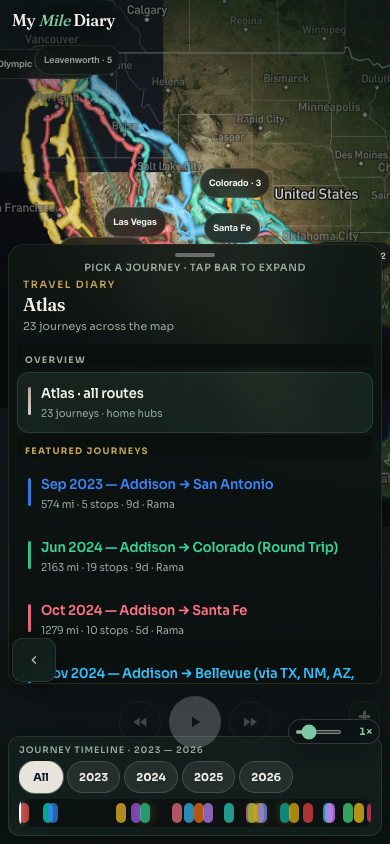
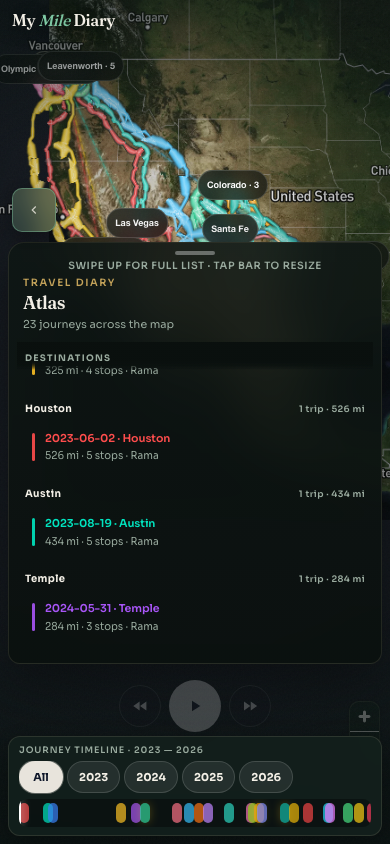
Fix mobile home screen scroll and chrome overlap (#32)
The atlas browse view on phones opened in a tiny peek sheet with only
~70px of scroll area, while the transport dock overlapped the timeline
by 16px and the speed rail cluttered the home screen.

- Default mobile sheet to half height so trips are browsable on load
- Measure bottom chrome at runtime and position the panel above it
- Hide speed rail on atlas browse; show only when a trip is focused
- Fix dock/timeline stacking gap and add touch scroll isolation
- Add swipe-up/down on the sheet grab handle
- Strengthen verify_map mobile assertions (scroll, overlap, list height)

diff --git a/scripts/verify_map.py b/scripts/verify_map.py
@@ -690,21 +690,20 @@ def main() -> int:
         print(f"Play control: {dock_state}")
         queue_state = dock_state  # keep name for older assertion block compatibility below
 
-        # Mobile sheet regression (iPhone-ish)
+        # Mobile sheet regression (iPhone-ish) — default browse state, no forced sheet mode
         page.set_viewport_size({"width": 390, "height": 844})
         page.evaluate("selectTrip('all'); setPanelCollapsed(false); ensureMobileBrowseSheet();")
-        page.wait_for_timeout(400)
-        mobile_peek = page.evaluate(
+        page.wait_for_timeout(500)
+        mobile_default = page.evaluate(
             """() => {
               const panel = document.getElementById('sidebar');
               return {
+                panelHalf: panel?.classList.contains('sheet-half'),
                 panelPeek: panel?.classList.contains('sheet-peek'),
                 panelMaxH: panel?.getBoundingClientRect().height,
               };
             }"""
         )
-        page.evaluate("setSheetState('half')")
-        page.wait_for_timeout(300)
         mobile = page.evaluate(
             """() => {
               const panel = document.getElementById('sidebar');
@@ -730,6 +729,11 @@ def main() -> int:
                 return r.height > 0 && r.bottom > pr.top + 12 && r.top < pr.bottom - 8;
               }).length;
               const togglePanelOverlap = !!(tr && pr && tr.left < pr.right && tr.right > pr.left && tr.top < pr.bottom && tr.bottom > pr.top);
+              const scrollBefore = list?.scrollTop || 0;
+              if (list) list.scrollTop = list.scrollHeight;
+              const scrollAfter = list?.scrollTop || 0;
+              const lastItem = items[items.length - 1];
+              const lastR = lastItem?.getBoundingClientRect();
               return {
                 panelBottomSheet: pr.bottom > window.innerHeight * 0.55 && pr.top > window.innerHeight * 0.18,
                 panelGrab: !!document.getElementById('panel-grab') && getComputedStyle(document.getElementById('panel-grab')).display !== 'none',
@@ -737,8 +741,14 @@ def main() -> int:
                 panelHalf: panel?.classList.contains('sheet-half'),
                 panelMaxH: pr.height,
                 panelHeightOk: pr.height >= window.innerHeight * 0.38,
+                listClientH: list?.clientHeight || 0,
                 tripListVisible: visibleTrips >= 1,
                 listScrollable: list ? list.scrollHeight > list.clientHeight + 4 : false,
+                listScrollWorked: scrollAfter > scrollBefore + 20,
+                lastTripReachable: !!(lastR && lr && lastR.top >= lr.top && lastR.bottom <= lr.bottom + 2),
+                dockTimelineOverlap: overlaps(dr, tlr),
+                dockTimelineGap: tlr && dr ? tlr.top - dr.bottom : null,
+                speedHiddenOnAtlas: speed ? getComputedStyle(speed).display === 'none' : true,
                 dockWidth: dr.width,
                 dockInView: dr.bottom <= window.innerHeight + 2 && dr.top >= 0,
                 toggleSize: Math.min(tr.width, tr.height),
@@ -747,14 +757,15 @@ def main() -> int:
                 eraScrollable: era ? era.scrollWidth >= era.clientWidth - 1 : false,
                 eraChips: document.querySelectorAll('.era-chip').length,
                 timelineInView: tlr ? (tlr.left >= -1 && tlr.right <= window.innerWidth + 1 && tlr.bottom <= window.innerHeight + 2) : false,
-                chromeOverlap: overlaps(pr, dr) || overlaps(pr, tlr) || overlaps(tr, sr) || togglePanelOverlap,
+                chromeOverlap: overlaps(pr, dr) || overlaps(pr, tlr) || overlaps(pr, sr) || togglePanelOverlap,
+                mobileChromeH: getComputedStyle(document.documentElement).getPropertyValue('--mobile-chrome-h').trim(),
                 hubs: document.querySelectorAll('.home-hub').length,
                 vw: window.innerWidth,
                 vh: window.innerHeight,
               };
             }"""
         )
-        print(f"Mobile peek: {mobile_peek}")
+        print(f"Mobile default: {mobile_default}")
         print(f"Mobile 390x844: {mobile}")
         page.screenshot(path=str(SCREENSHOTS / "08-mobile-sheet.png"))
         page.evaluate(f"selectTrip({json.dumps(trip_co)})")
@@ -1092,11 +1103,11 @@ def main() -> int:
     if mobile.get("vw") != 390:
         print(f"FAIL: Mobile viewport not applied: {mobile}")
         ok = False
-    if not mobile_peek.get("panelPeek"):
-        print(f"FAIL: Mobile panel should default to peek sheet for browsing: {mobile_peek}")
+    if not mobile_default.get("panelHalf"):
+        print(f"FAIL: Mobile panel should default to half sheet for browsing: {mobile_default}")
         ok = False
     if not mobile.get("panelHalf"):
-        print(f"FAIL: Mobile panel should expand to half sheet: {mobile}")
+        print(f"FAIL: Mobile panel should stay in half sheet for browsing: {mobile}")
         ok = False
     if not mobile.get("panelHeightOk"):
         print(f"FAIL: Mobile panel too short to browse journeys: {mobile}")
@@ -1106,6 +1117,21 @@ def main() -> int:
         ok = False
     if not mobile.get("tripListVisible"):
         print(f"FAIL: Mobile trip list not visible in sheet: {mobile}")
+        ok = False
+    if mobile.get("dockTimelineOverlap"):
+        print(f"FAIL: Mobile transport dock overlaps timeline: {mobile}")
+        ok = False
+    if mobile.get("listClientH", 0) < 120:
+        print(f"FAIL: Mobile trip list scroll area too small: {mobile}")
+        ok = False
+    if mobile.get("listScrollable") and not mobile.get("listScrollWorked"):
+        print(f"FAIL: Mobile trip list did not scroll: {mobile}")
+        ok = False
+    if mobile.get("listScrollable") and not mobile.get("lastTripReachable"):
+        print(f"FAIL: Mobile trip list cannot reach last journey: {mobile}")
+        ok = False
+    if not mobile.get("speedHiddenOnAtlas"):
+        print(f"FAIL: Speed rail should hide on atlas browse: {mobile}")
         ok = False
     if mobile.get("chromeOverlap"):
         print(f"FAIL: Mobile chrome overlaps (panel/dock/speed/timeline): {mobile}")
